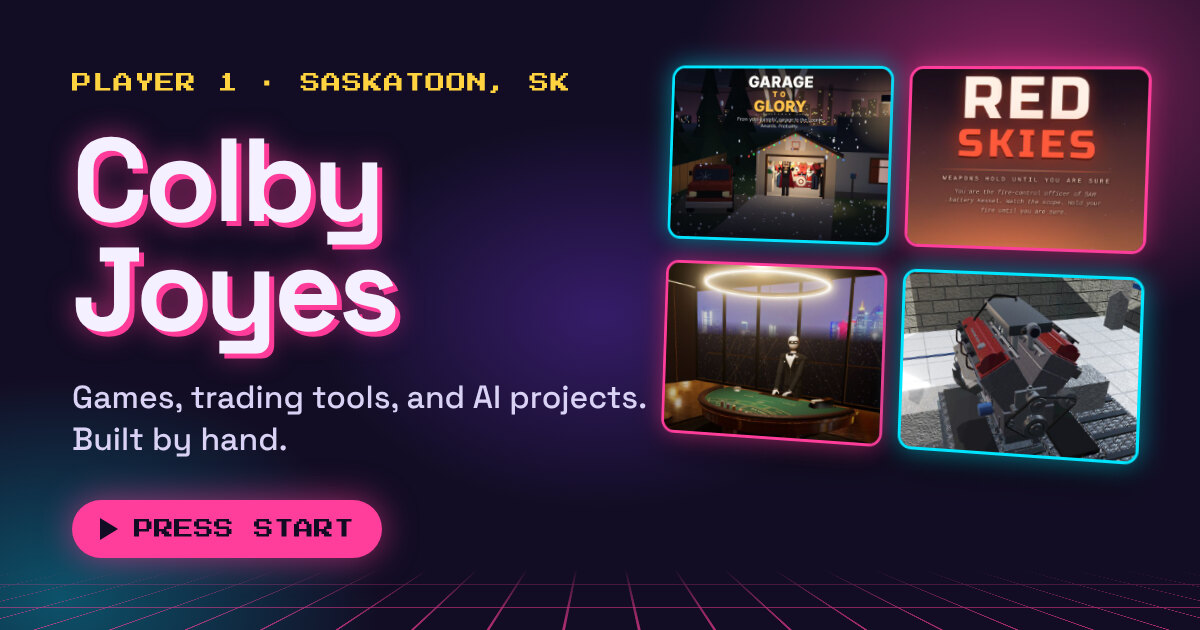
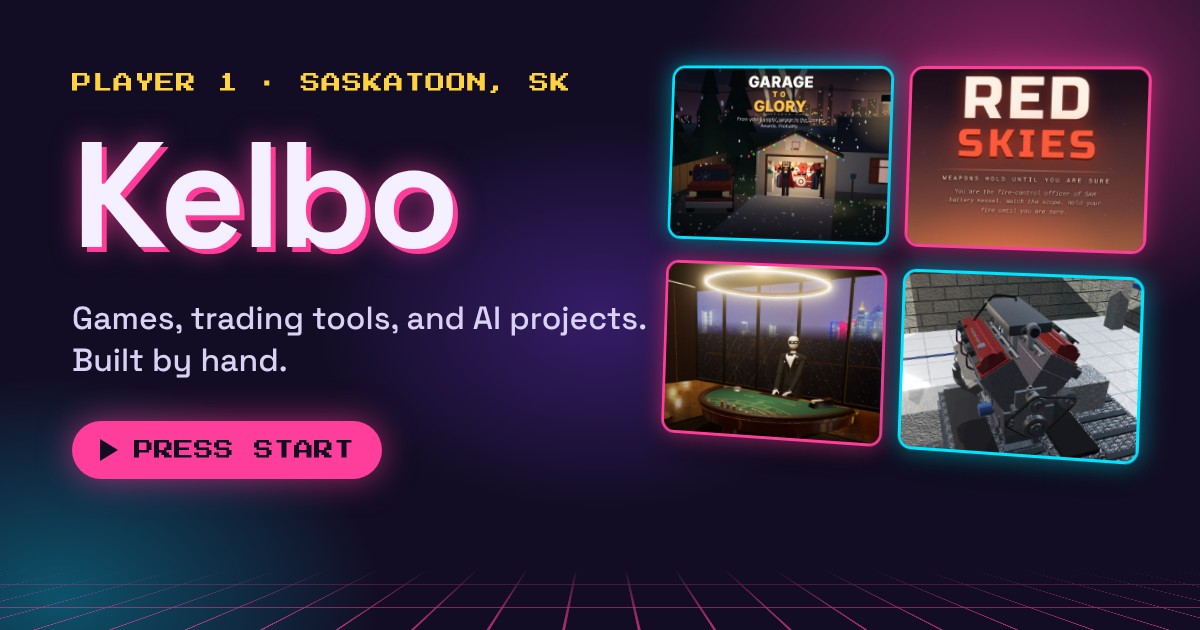
Use the name Kelbo everywhere on the site (#20)
Replaces the real name in every page title, link preview tag, the home
page heading, the bio, the footer, and code comments. The K wordmark
becomes KELBO (smaller on phones so it still fits beside the nav at
360px), and the link preview image is regenerated with the new name.
CLAUDE.md gets a rule to keep the real name off the site.

Claude-Session: https://claude.ai/code/session_016QaTkMKy8nw5ihBrZfYzcJ

diff --git a/style.css b/style.css
@@ -205,11 +205,18 @@ img {
 
 .wordmark {
   font-family: var(--font-pixel);
-  font-size: 1.125rem;
+  /* Smaller on phones so KELBO fits beside the nav at 360px wide */
+  font-size: 0.75rem;
   line-height: 1;
   color: var(--cyan);
   text-decoration: none;
   text-shadow: 0 0 12px var(--glow-cyan);
+}
+
+@media (min-width: 40rem) {
+  .wordmark {
+    font-size: 1.125rem;
+  }
 }
 
 .wordmark:hover {

diff --git a/games.html b/games.html
@@ -33,7 +33,7 @@
 
   <header class="site-header">
     <div class="wrap site-header__inner">
-      <a class="wordmark" href="./" aria-label="Kelbo, home">K</a>
+      <a class="wordmark" href="./" aria-label="Kelbo, home">KELBO</a>
       <nav aria-label="Main">
         <ul class="nav">
           <li><a href="games.html" aria-current="page">Games</a></li>

diff --git a/tools/prediction-tracker/index.html b/tools/prediction-tracker/index.html
@@ -35,7 +35,7 @@
 
   <header class="site-header">
     <div class="wrap site-header__inner">
-      <a class="wordmark" href="../../" aria-label="Kelbo, home">K</a>
+      <a class="wordmark" href="../../" aria-label="Kelbo, home">KELBO</a>
       <nav aria-label="Main">
         <ul class="nav">
           <li><a href="../../games.html">Games</a></li>

diff --git a/404.html b/404.html
@@ -33,7 +33,7 @@
 
   <header class="site-header">
     <div class="wrap site-header__inner">
-      <a class="wordmark" href="./" aria-label="Kelbo, home">K</a>
+      <a class="wordmark" href="./" aria-label="Kelbo, home">KELBO</a>
       <nav aria-label="Main">
         <ul class="nav">
           <li><a href="games.html">Games</a></li>

diff --git a/agent-fleet.html b/agent-fleet.html
@@ -33,7 +33,7 @@
 
   <header class="site-header">
     <div class="wrap site-header__inner">
-      <a class="wordmark" href="./" aria-label="Kelbo, home">K</a>
+      <a class="wordmark" href="./" aria-label="Kelbo, home">KELBO</a>
       <nav aria-label="Main">
         <ul class="nav">
           <li><a href="games.html">Games</a></li>

diff --git a/ai.html b/ai.html
@@ -33,7 +33,7 @@
 
   <header class="site-header">
     <div class="wrap site-header__inner">
-      <a class="wordmark" href="./" aria-label="Kelbo, home">K</a>
+      <a class="wordmark" href="./" aria-label="Kelbo, home">KELBO</a>
       <nav aria-label="Main">
         <ul class="nav">
           <li><a href="games.html">Games</a></li>

diff --git a/index.html b/index.html
@@ -34,7 +34,7 @@
 
   <header class="site-header">
     <div class="wrap site-header__inner">
-      <a class="wordmark" href="./" aria-label="Kelbo, home">K</a>
+      <a class="wordmark" href="./" aria-label="Kelbo, home">KELBO</a>
       <nav aria-label="Main">
         <ul class="nav">
           <li><a href="games.html">Games</a></li>

diff --git a/journal.html b/journal.html
@@ -36,7 +36,7 @@
 
   <header class="site-header">
     <div class="wrap site-header__inner">
-      <a class="wordmark" href="./" aria-label="Kelbo, home">K</a>
+      <a class="wordmark" href="./" aria-label="Kelbo, home">KELBO</a>
       <nav aria-label="Main">
         <ul class="nav">
           <li><a href="games.html">Games</a></li>

diff --git a/projects.html b/projects.html
@@ -33,7 +33,7 @@
 
   <header class="site-header">
     <div class="wrap site-header__inner">
-      <a class="wordmark" href="./" aria-label="Kelbo, home">K</a>
+      <a class="wordmark" href="./" aria-label="Kelbo, home">KELBO</a>
       <nav aria-label="Main">
         <ul class="nav">
           <li><a href="games.html">Games</a></li>

diff --git a/trading.html b/trading.html
@@ -33,7 +33,7 @@
 
   <header class="site-header">
     <div class="wrap site-header__inner">
-      <a class="wordmark" href="./" aria-label="Kelbo, home">K</a>
+      <a class="wordmark" href="./" aria-label="Kelbo, home">KELBO</a>
       <nav aria-label="Main">
         <ul class="nav">
           <li><a href="games.html">Games</a></li>

diff --git a/CLAUDE.md b/CLAUDE.md
@@ -14,6 +14,9 @@ Live at https://jxstrr0.github.io/Kelbo.Website/
   plain language and keep code readable, with comments on anything
   non-obvious. He may edit files in the GitHub web or mobile editor.
 - Only publish personal details Kelbo has approved. The site is public.
+- **The site uses the name Kelbo only.** Never put his real first or last
+  name (or his initials) anywhere on the site, in page text, titles, `og:`
+  tags, alt text, comments, or the link preview image.
 
 ## Hard rules
 
@@ -59,7 +62,7 @@ Live at https://jxstrr0.github.io/Kelbo.Website/
   (GarageToGlory, RedSkies, BaccaratTable, 350Chev). This site only links to
   them via `link` (the pink Play it button) and `code` (the repo). The home
   page "Pick a game" cards are the `featured` projects (max 4).
-- The nav (Games, Trading, AI, Projects; the K wordmark is home) is copied
+- The nav (Games, Trading, AI, Projects; the KELBO wordmark is home) is copied
   in every page and only just fits at 360px. Test before adding to it.
 - The AI Trading Journal is `journal.html` + `journal.js` + `journal.css`,
   with entries in `journal.json` (a list, newest first by `date`). The

diff --git a/README.md b/README.md
@@ -325,6 +325,6 @@ It runs entirely in the visitor's browser:
   folder with its own `index.html`, then set that project's `link` to the
   folder, like `tools/my-tool/`. Pages in there link back with `../../`.
 - **Custom domain:** add a file named `CNAME` containing just the domain (for
-  example `Kelbo.com`), then point the domain at GitHub Pages in your
+  example `kelbo.ca`), then point the domain at GitHub Pages in your
   domain provider's settings. All links on the site are relative, so they'll
   keep working.
